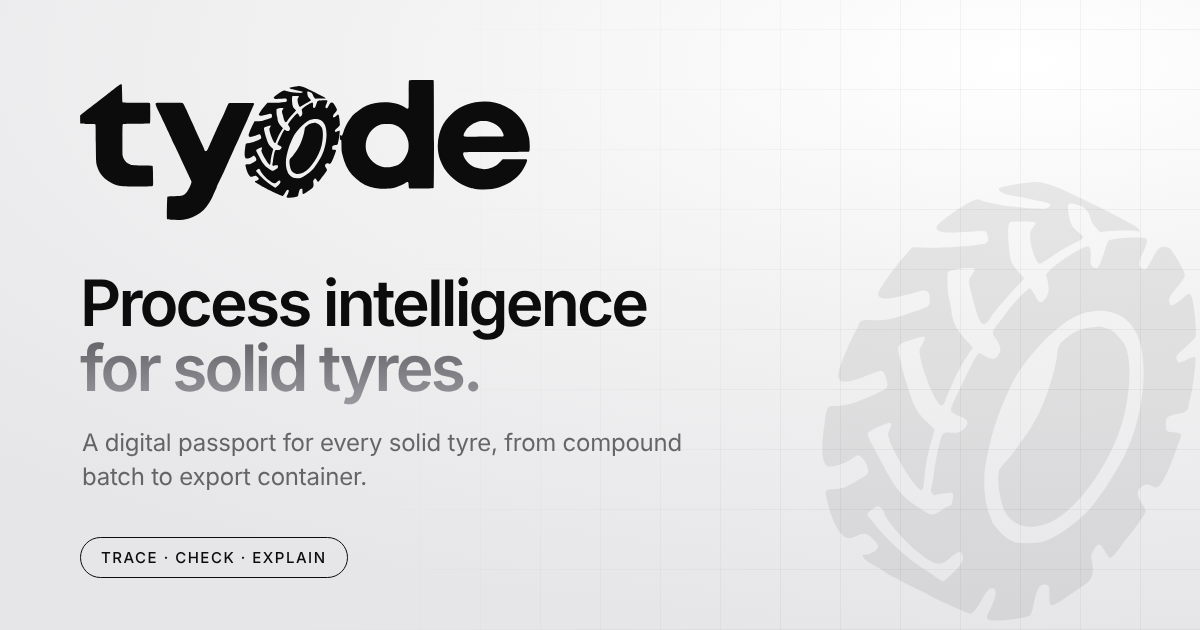
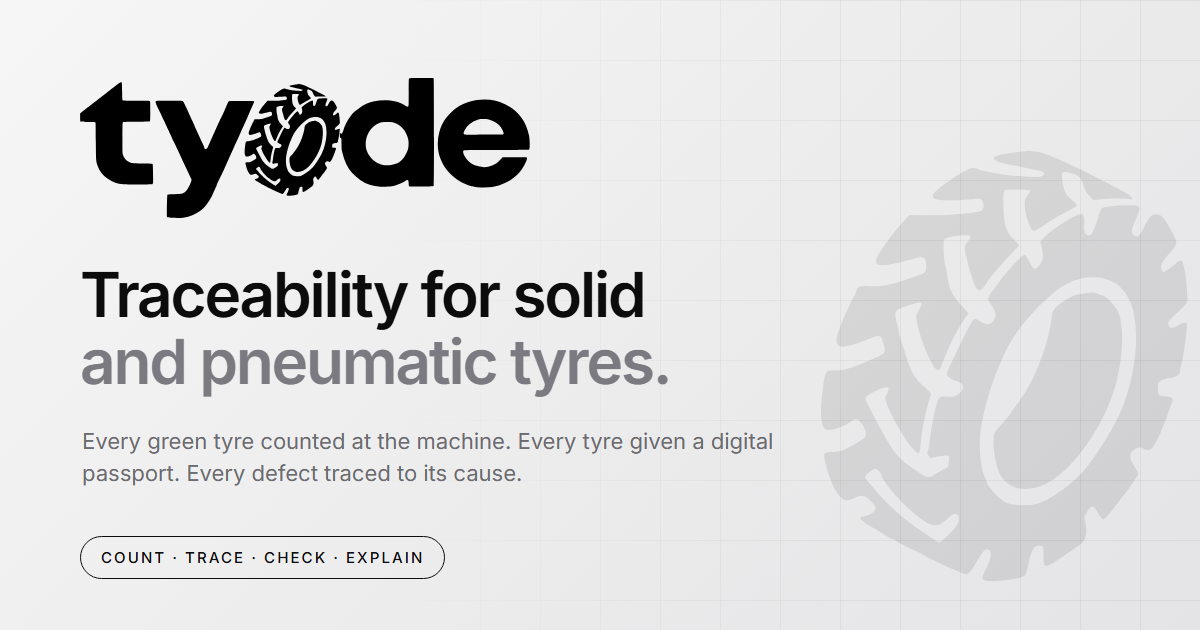
feat(seo): title, description and preview image for solid and pneumatic

diff --git a/lib/site.ts b/lib/site.ts
@@ -14,8 +14,8 @@ export const SITE_URL = (fromEnv ?? "http://localhost:3000").replace(/\/+$/, "")
 
 export const SITE_NAME = "Tyode";
 
-export const SITE_TITLE = "Tyode - Process Intelligence for Solid Tyres";
+export const SITE_TITLE = "Tyode - Traceability for Solid and Pneumatic Tyres";
 
 /** ~155 characters: roughly what Google shows under the title in results */
 export const SITE_DESCRIPTION =
-  "Tyode is a digital passport for solid tyres. It traces every tyre from compound batch to export container, records quality checks and helps explain failures.";
+  "Tyode counts every green tyre at the machine, gives each solid and pneumatic tyre a digital passport, and uses AI to explain defects with every source cited.";

diff --git a/app/layout.tsx b/app/layout.tsx
@@ -27,6 +27,8 @@ export const metadata: Metadata = {
   keywords: [
     "solid tyre",
     "solid tyre manufacturing",
+    "pneumatic tyre",
+    "green tyre counting",
     "tyre traceability",
     "digital product passport",
     "process intelligence",
